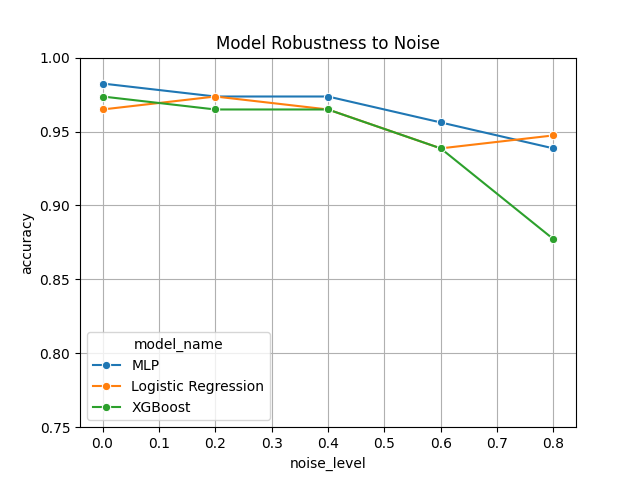
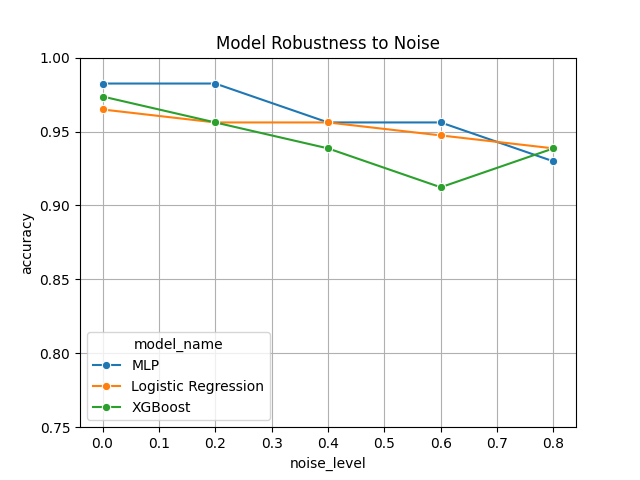
Updates

diff --git a/tests/evaluation.py b/tests/evaluation.py
@@ -1,0 +1,123 @@
+#attempt to suppress GPU-related warnings (only kinda works)
+import os
+os.environ["CUDA_VISIBLE_DEVICES"] = "-1" 
+os.environ["TF_CPP_MIN_LOG_LEVEL"] = "3"
+
+#Necessary packages
+from ucimlrepo import fetch_ucirepo
+import pandas as pd
+import numpy as np
+import matplotlib.pyplot as plt
+from sklearn.metrics import accuracy_score
+from tensorflow.keras.models import load_model
+import joblib
+from data_preprocessing import preprocess_data
+from sklearn.metrics import accuracy_score, confusion_matrix, classification_report
+import time
+import seaborn as sns
+
+breast_cancer_wisconsin_diagnostic = fetch_ucirepo(id=17)
+
+X = breast_cancer_wisconsin_diagnostic.data.features
+y = breast_cancer_wisconsin_diagnostic.data.targets
+
+X_train_scaled, X_test_scaled, y_train, y_test, scaler = preprocess_data(X, y)
+
+#load trained models
+mlp_model = load_model('models/mlp_model.keras')
+log_model = joblib.load('models/logistic_model.pkl')
+xgb_model = joblib.load('models/xgb_model.pkl')
+scaler = joblib.load('models/scaler.pkl')
+
+#Gaussian noise
+def add_noise(X, noise_level = 0.1):
+    noise = np.random.normal(0, noise_level, X.shape)
+    X_noisy = X + noise
+    return X_noisy
+
+#stress test in loop
+noise_levels = [0, 0.2, 0.4, 0.6, 0.8]
+
+noise_results = []
+
+for noise in noise_levels:
+    print(f"\n--- Noise level: {noise} ---")
+
+    X_test_noisy = add_noise(X_test_scaled, noise_level = noise)
+
+    #MLP
+    y_pred_mlp_proba = mlp_model.predict(X_test_noisy)
+    y_pred_mlp = (y_pred_mlp_proba > 0.5).astype(int).flatten()
+    acc_mlp = accuracy_score(y_test, y_pred_mlp)
+    noise_results.append(({'noise_level': noise, 'model_name': 'MLP', 'accuracy': acc_mlp}))
+
+    #Logistic Regression
+    y_pred_log = log_model.predict(X_test_noisy)
+    acc_log = accuracy_score(y_test, y_pred_log)
+    noise_results.append(({'noise_level': noise, 'model_name': 'Logistic Regression', 'accuracy': acc_log}))
+
+    #XGBoost
+    y_pred_xgb = xgb_model.predict(X_test_noisy)
+    acc_xgb = accuracy_score(y_test, y_pred_xgb)
+    noise_results.append(({'noise_level': noise, 'model_name': 'XGBoost', 'accuracy': acc_xgb}))
+
+df_noise = pd.DataFrame(noise_results)
+
+print(df_noise)
+
+sns.lineplot(data = df_noise,  x = 'noise_level', y = 'accuracy', hue = 'model_name', marker = 'o')
+plt.title('Model Robustness to Noise')
+plt.ylim(0.75, 1.0)
+plt.grid(True)
+plt.savefig('Noise_robustness.png')
+plt.show()
+
+#Outliers
+def introduce_outliers(X, outlier_fraction = 0.05, outlier_strength = 10):
+    X_outlier = X.copy()
+    n_outliers = int(outlier_fraction * X.shape[0])
+    outlier_indices = np.random.choice(X.shape[0], n_outliers, replace = False)
+
+    X_outlier[outlier_indices] += np.random.normal(0, outlier_strength, (n_outliers, X.shape[1]))
+
+    return X_outlier
+
+#Outliers stress test loop
+
+outlier_levels = [0, 0.2, 0.4, 0.6, 0.8]
+
+outlier_results = []
+
+for outliers in outlier_levels:
+    print(f"\n--- Outlier Fraction: {outliers} ---")
+
+    X_test_outlier = introduce_outliers(X_test_scaled, outlier_fraction = outliers)
+
+    #MLP
+    y_pred_mlp_proba = mlp_model.predict(X_test_outlier)
+    y_pred_mlp = (y_pred_mlp_proba > 0.5).astype(int).flatten()
+    acc_mlp = accuracy_score(y_test, y_pred_mlp)
+    outlier_results.append(({'outlier_fraction': outliers, 'model_name': 'MLP', 'accuracy': acc_mlp}))
+
+    #Logistic Regression
+    y_pred_log = log_model.predict(X_test_outlier)
+    acc_log = accuracy_score(y_test, y_pred_log)
+    outlier_results.append(({'outlier_fraction': outliers, 'model_name': 'Logistic Regression', 'accuracy': acc_log}))
+
+    #XGBoost
+    y_pred_xgb = xgb_model.predict(X_test_outlier)
+    acc_xgb = accuracy_score(y_test, y_pred_xgb)
+    outlier_results.append(({'outlier_fraction': outliers, 'model_name': 'XGBoost', 'accuracy': acc_xgb}))
+
+df_outliers = pd.DataFrame(outlier_results)
+
+print(df_outliers)
+
+plt.figure()
+
+sns.lineplot(data = df_outliers,  x = 'outlier_fraction', y = 'accuracy', hue = 'model_name', marker = 'o')
+plt.title('Model Robustness to Outliers')
+plt.ylim(0.5, 1.0)
+plt.grid(True)
+plt.savefig('Outliers_robustness.png')
+plt.show()
